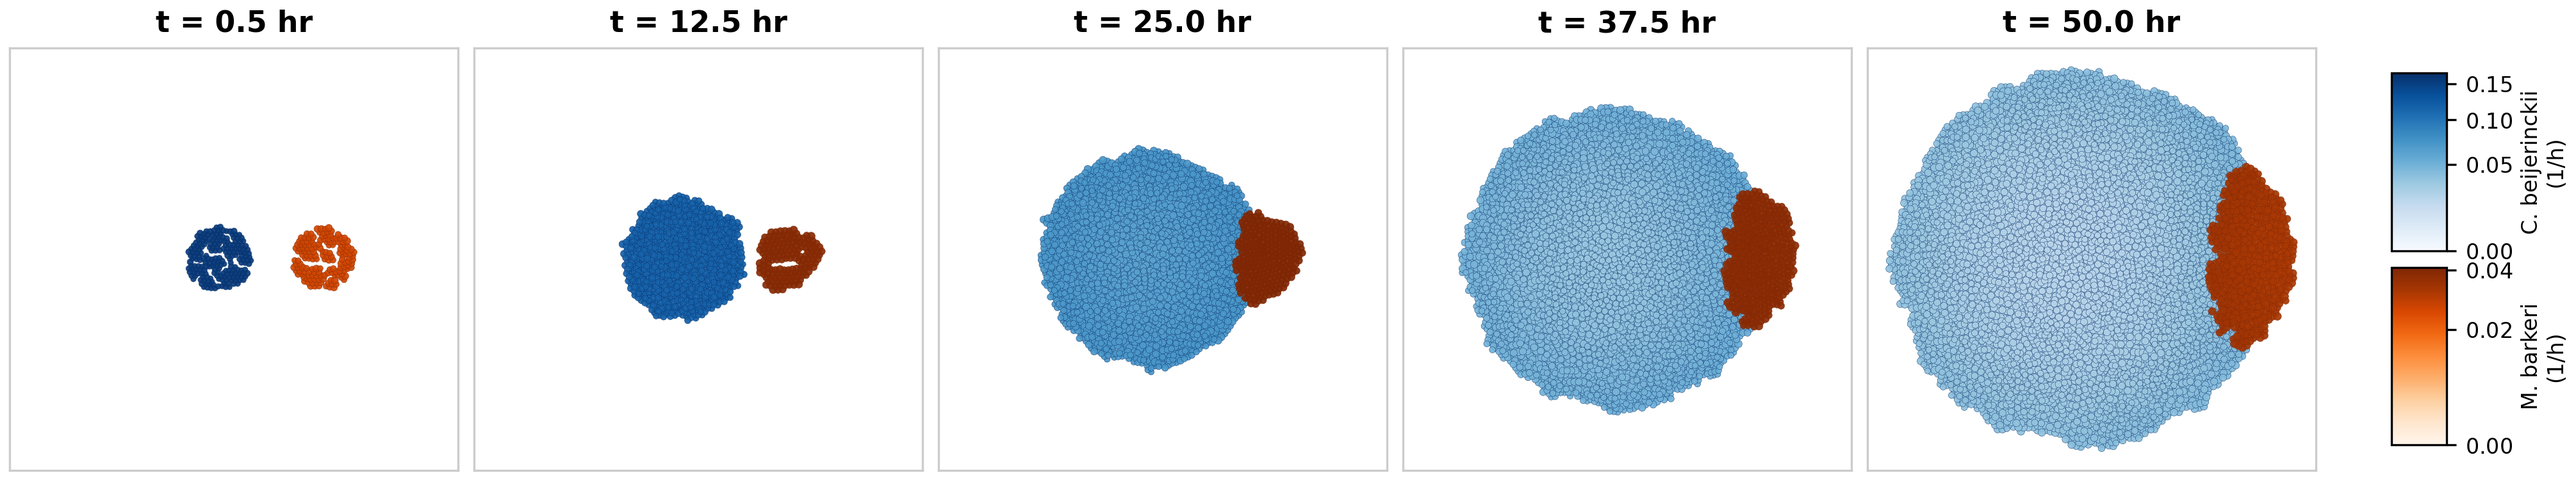
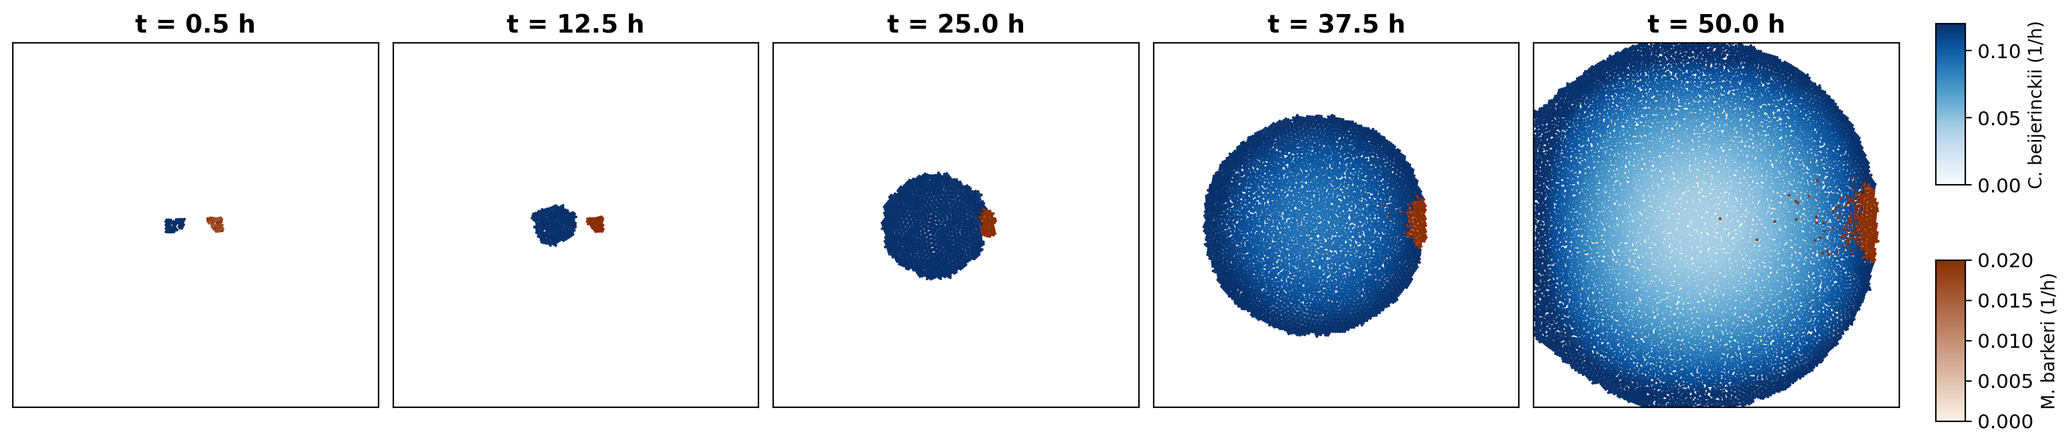
Supplementary Figures S10 and S11 of the cross-feeding use case regenerated from CF3-NC50_s50

Changed region(s): [[0.0, 0.0, 0.9997, 0.9655], [0.0, 0.9655, 0.906, 0.9957], [0.0625, 0.4526, 0.1562, 0.6034]]

diff --git a/usecases/crossfeeding/scripts/make_supp_snapshots.py b/usecases/crossfeeding/scripts/make_supp_snapshots.py
@@ -1,0 +1,45 @@
+"""Supplementary Figures S10 (growth rate of the cells) and S11 (glucose, CH4, H2 and acetate fields) of the cross-feeding use case from one run (CF3-NC50_s50: open box, no caps, 50 h)
+at 0.5, 12.5, 25, 37.5 and 50 h. Colours from common/plot_style.py; the colour scale of each field is the same at all times (zero to the maximum over the five times).
+usage: make_supp_snapshots.py RUNDIR OUT_PREFIX    ->  OUT_PREFIX_growth_rate.png, OUT_PREFIX_fields.png"""
+import sys, glob, os, numpy as np, scipy.io as sio, xml.etree.ElementTree as ET, matplotlib
+matplotlib.use("Agg"); import matplotlib.pyplot as plt
+from matplotlib.colors import LinearSegmentedColormap
+sys.path.insert(0, os.path.join(os.path.dirname(os.path.abspath(__file__)), "..", "..", "..", "common")); from pcxml import labels; from plot_style import substrate_cmap
+run, out = sys.argv[1].rstrip("/"), sys.argv[2]
+TIMES = (30, 750, 1500, 2250, 3000); VAR = {"glucose": 4, "methane": 5, "H2": 7, "acetate": 11}
+files = sorted(glob.glob(f"{run}/output*[0-9].xml")); tof = lambda f: float(ET.parse(f).getroot().find(".//current_time").text); tt = np.array([tof(f) for f in files])
+snaps = {}
+for T in TIMES:
+    f = files[int(np.argmin(abs(tt - T)))]; root = ET.parse(f).getroot(); lab = labels(root)
+    c = sio.loadmat(f.replace(".xml", "_cells.mat"))["cells"]; g = lambda k: c[lab.index(k)]
+    me = sio.loadmat(f.replace(".xml", "_microenvironment0.mat"))["multiscale_microenvironment"]
+    snaps[T] = (tof(f), me, g("position[0]"), g("position[1]"), g("growth_rate"), g("cell_type"), g("dead") > 0)
+me0 = snaps[TIMES[0]][1]; xs, ys = np.unique(me0[0]), np.unique(me0[1]); h = xs[1] - xs[0]; ext = [xs[0] - h / 2, xs[-1] + h / 2] * 2; lim = ext[1]
+plt.rcParams.update({"font.size": 11}); cb_ = plt.cm.Blues; mb_ = LinearSegmentedColormap.from_list("o", ["#fdf1e6", "#8b2d00"])
+def frame(ax):
+    ax.set_xlim(-lim, lim); ax.set_ylim(-lim, lim); ax.set_aspect("equal"); ax.set_xticks([]); ax.set_yticks([])
+# S10: growth rate
+fig, axs = plt.subplots(1, 5, figsize=(19, 4.2), gridspec_kw=dict(wspace=0.04, right=0.9))
+for ax, T in zip(axs, TIMES):
+    t, me, x, y, gr, ty, dead = snaps[T]
+    for k, cm, vm in ((0, cb_, 0.12), (1, mb_, 0.02)):
+        s = (ty == k) & ~dead; ax.scatter(x[s], y[s], c=gr[s], cmap=cm, vmin=0, vmax=vm, s=2.5, lw=0)
+    frame(ax); ax.set_title("t = %.1f h" % (t / 60), fontsize=14, fontweight="bold")
+for cm, vm, lab, y0 in ((cb_, 0.12, "C. beijerinckii (1/h)", 0.57), (mb_, 0.02, "M. barkeri (1/h)", 0.13)):
+    cax = fig.add_axes([0.915, y0, 0.012, 0.30]); cbx = fig.colorbar(plt.cm.ScalarMappable(norm=plt.Normalize(0, vm), cmap=cm), cax=cax); cbx.set_label(lab, fontsize=10)
+fig.savefig(out + "_growth_rate.png", dpi=200, bbox_inches="tight", facecolor="white"); plt.close(fig)
+# S11: fields
+rows = (("glucose", "Glucose (mM)"), ("methane", "CH$_4$ (mM)"), ("H2", "H$_2$ (mM)"), ("acetate", "Acetate (mM)"))
+fig, axs = plt.subplots(4, 5, figsize=(17, 14), gridspec_kw=dict(wspace=0.06, hspace=0.06, right=0.92))
+for r, (nm, lab) in enumerate(rows):
+    fields = []
+    for T in TIMES:
+        me = snaps[T][1]; g = np.zeros((len(ys), len(xs))); g[np.searchsorted(ys, me[1]), np.searchsorted(xs, me[0])] = me[VAR[nm]]; fields.append(g)
+    vm = max(f.max() for f in fields); cm = substrate_cmap({"H2": "h2"}.get(nm, nm))
+    for c_, (ax, g, T) in enumerate(zip(axs[r], fields, TIMES)):
+        im = ax.imshow(g, origin="lower", extent=ext, cmap=cm, vmin=0, vmax=vm); frame(ax)
+        if r == 0: ax.set_title("t = %.1f h" % (snaps[T][0] / 60), fontsize=14, fontweight="bold")
+        if c_ == 0: ax.set_ylabel(lab, fontsize=13, fontweight="bold")
+    pos = axs[r, -1].get_position(); cax = fig.add_axes([0.935, pos.y0 + 0.1 * pos.height, 0.012, 0.8 * pos.height]); cbx = fig.colorbar(im, cax=cax); cbx.formatter.set_powerlimits((-2, 3)); cbx.update_ticks()
+fig.savefig(out + "_fields.png", dpi=200, bbox_inches="tight", facecolor="white"); plt.close(fig)
+print({T: round(snaps[T][0] / 60, 2) for T in TIMES})
